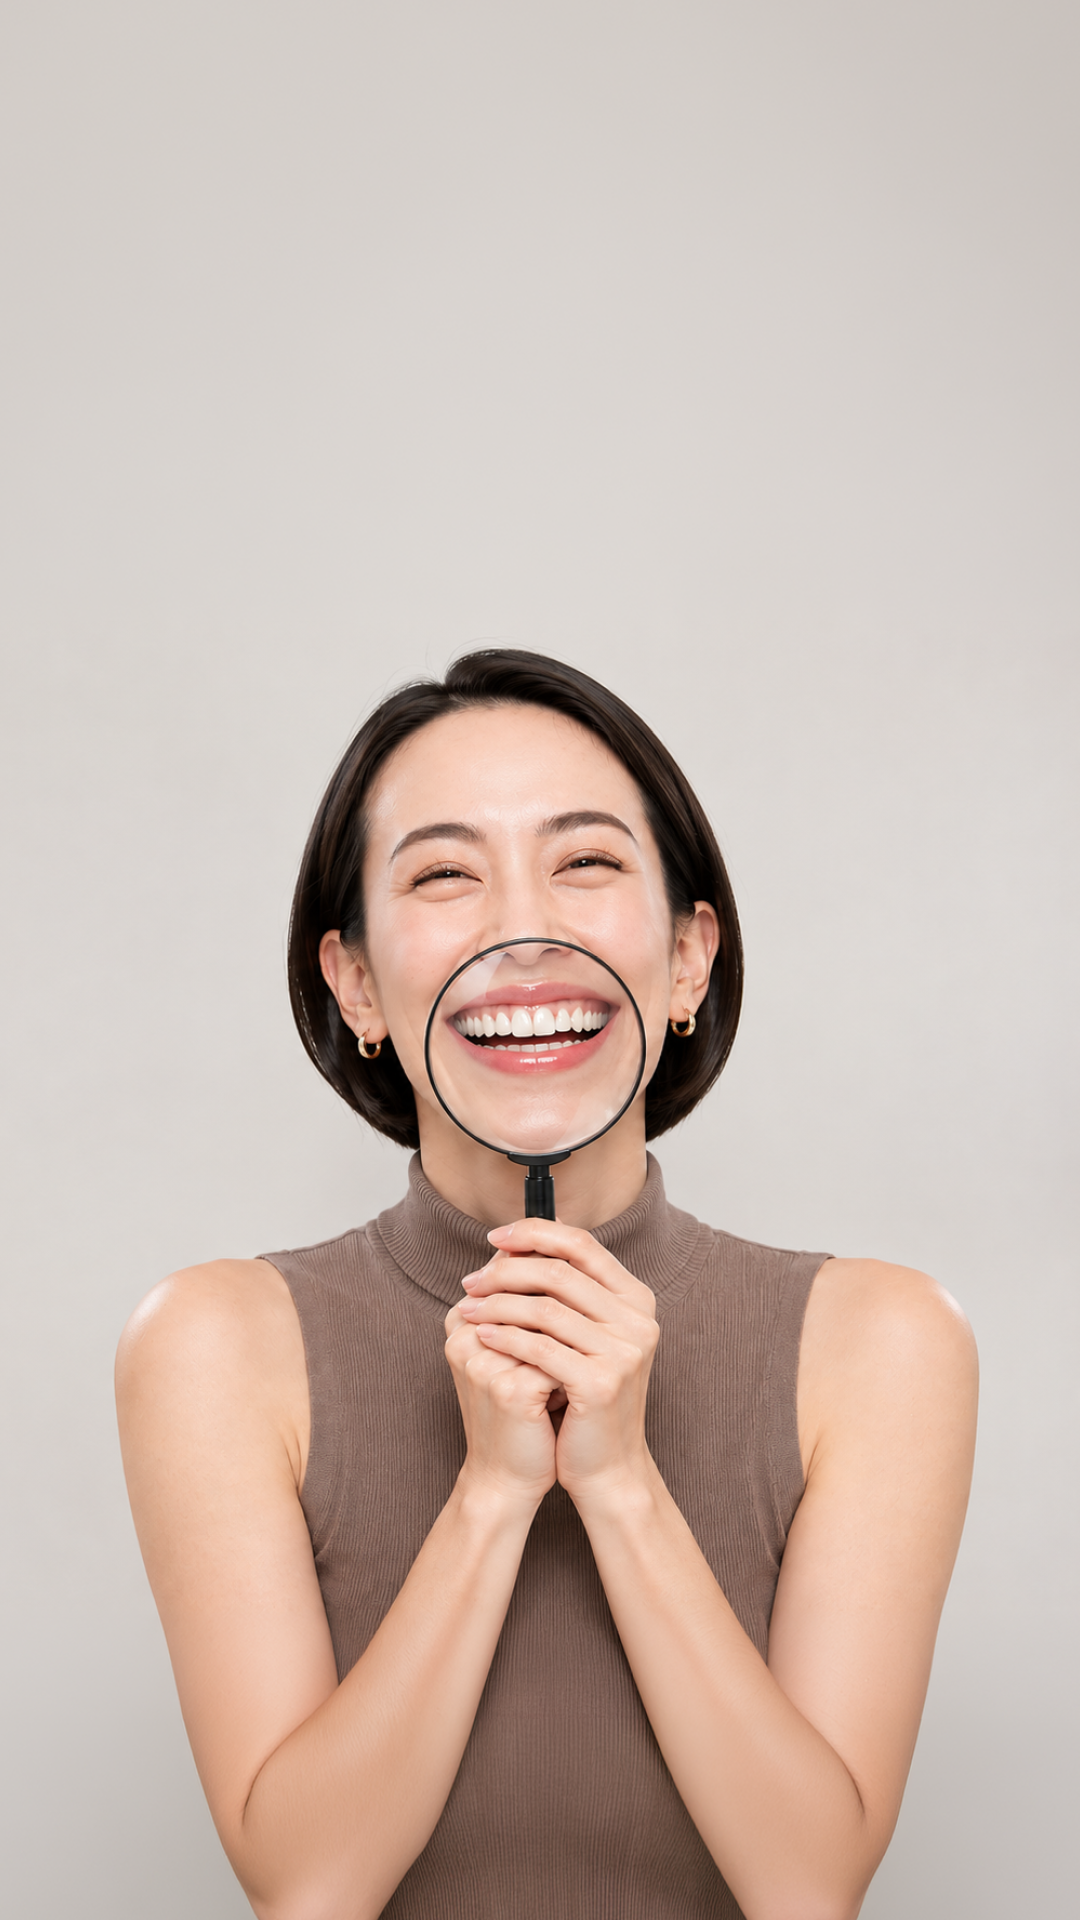
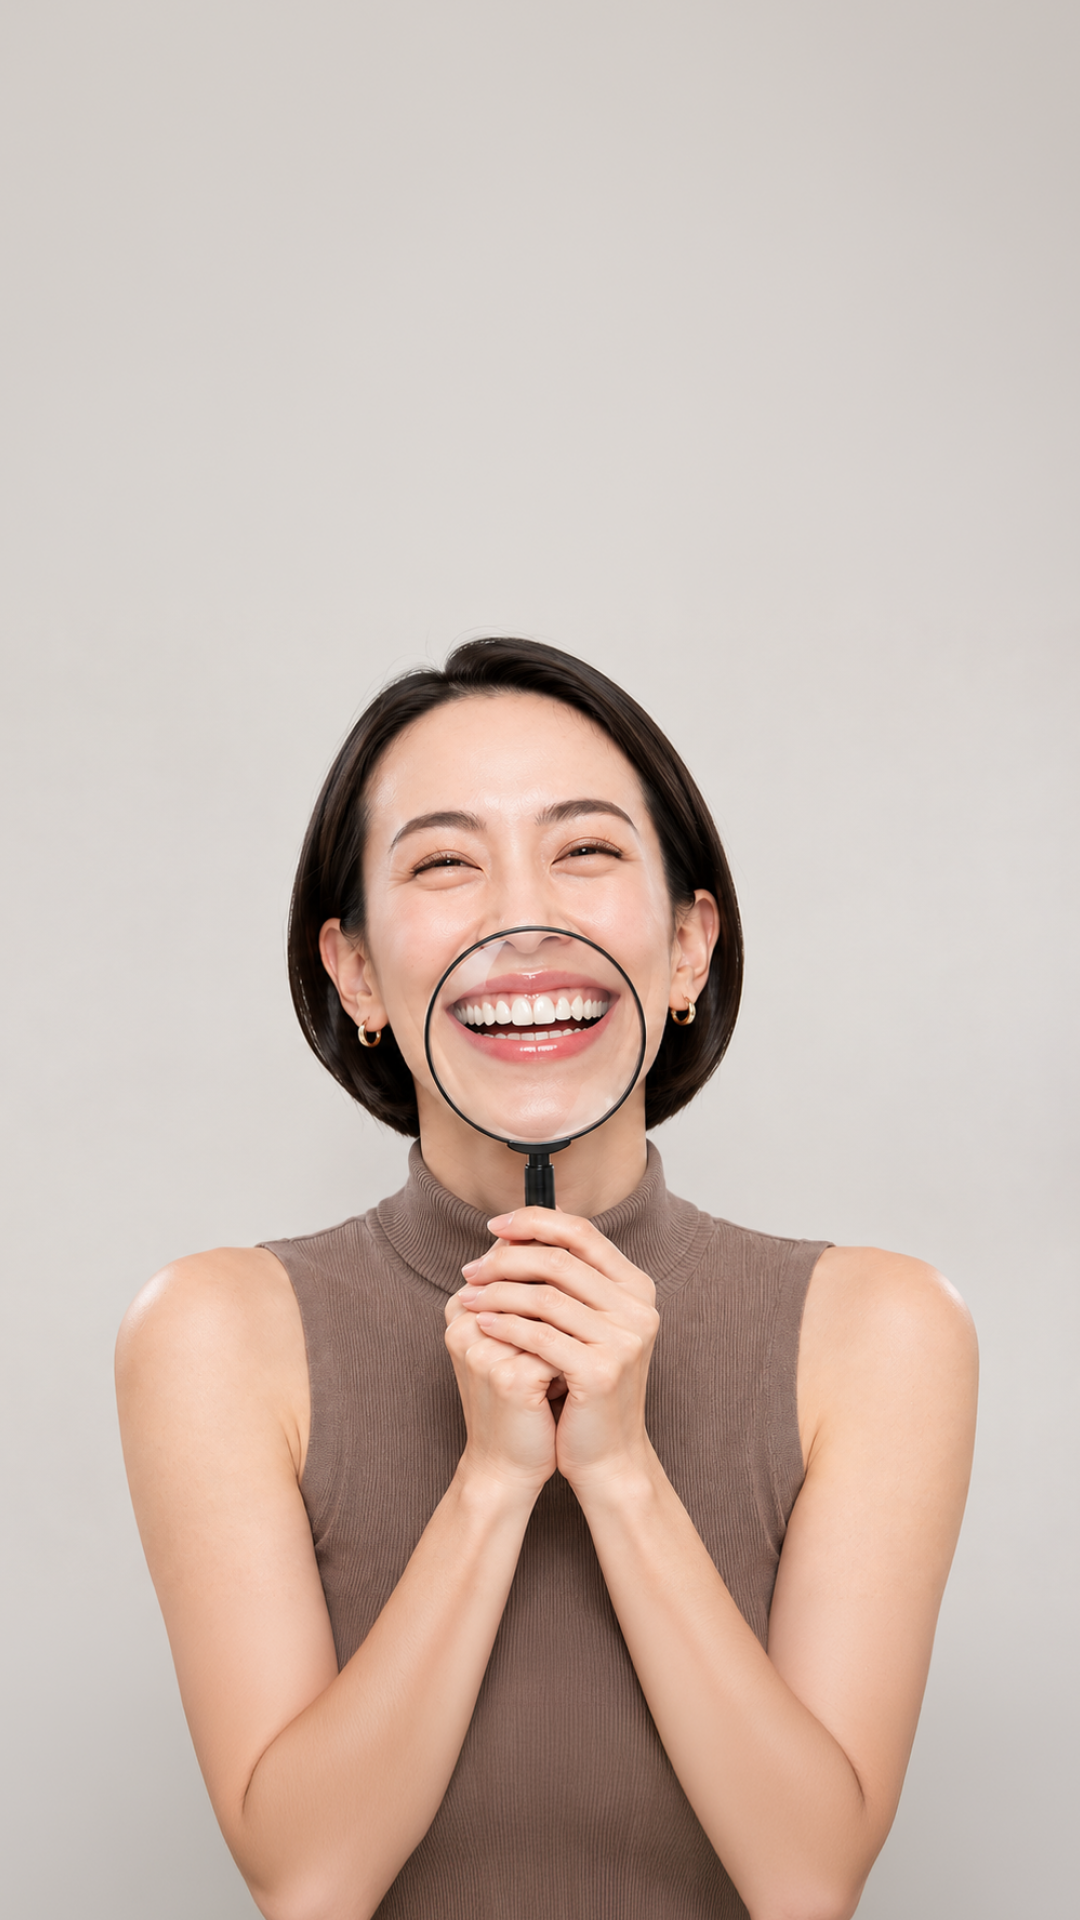
Refresh B mobile hero image and enlarge assessment card descriptions

diff --git a/smile-rwd-B/index.html b/smile-rwd-B/index.html
@@ -18,7 +18,7 @@
   <!-- 載入外觀樣式表與動態效果表 -->
   <link rel="stylesheet" href="styles.css">
   <link rel="stylesheet" href="animations.css">
-  <link rel="stylesheet" href="responsive.css?v=b-card-back-copy-290">
+  <link rel="stylesheet" href="responsive.css?v=b-card-back-size-293">
 
   <style>
     /* 康健標準 Header 專屬樣式 */
@@ -170,7 +170,7 @@
       <main id="editorial-main-content">
         <section class="w-full">
           <div class="photo-hero photo-hero-b">
- <div class="photo-hero-media"><picture><source media="(max-width:639px)" srcset="./images/hero-photo-mobile.png?v=289"><img src="./images/hero-photo-cover-reference-v6.png?v=289" alt="女性手持放大鏡，凸顯整齊明亮的笑容" width="1671" height="941" fetchpriority="high" decoding="async"></picture></div>
+ <div class="photo-hero-media"><picture><source media="(max-width:639px)" srcset="./images/hero-photo-mobile.png?v=294"><img src="./images/hero-photo-cover-reference-v6.png?v=289" alt="女性手持放大鏡，凸顯整齊明亮的笑容" width="1671" height="941" fetchpriority="high" decoding="async"></picture></div>
  <div class="photo-hero-copy"><div class="photo-hero-copy-inner"><h1><span>矯正前<span class="b-hero-desktop-comma">，</span></span><span>先看懂代價</span></h1><p>打造完美笑容的安心法則</p></div></div>
  <button type="button" class="photo-hero-scroll" aria-label="捲動至內容"><svg viewBox="0 0 24 24" fill="none" stroke="currentColor" stroke-width="2" aria-hidden="true"><path d="m6 9 6 6 6-6"/></svg></button>
 </div>

diff --git a/smile-rwd-B/responsive.css b/smile-rwd-B/responsive.css
@@ -1515,11 +1515,11 @@ body #ch-header,body #ch-header.is-scrolled,html.menu-open #ch-header{box-shadow
  width: 100%;
  margin: 0;
  text-align: center;
- font-size: clamp(15px, 4vw, 16px) !important;
+ font-size: clamp(16px, calc(4vw + 1px), 17px) !important;
  line-height: 1.5 !important;
 }
 @media (min-width: 640px) {
  #editorial-main-content #section-assessment .flip-grid .flip-back > .flip-back-description {
-  font-size: 18px !important;
+  font-size: 19px !important;
  }
 }
